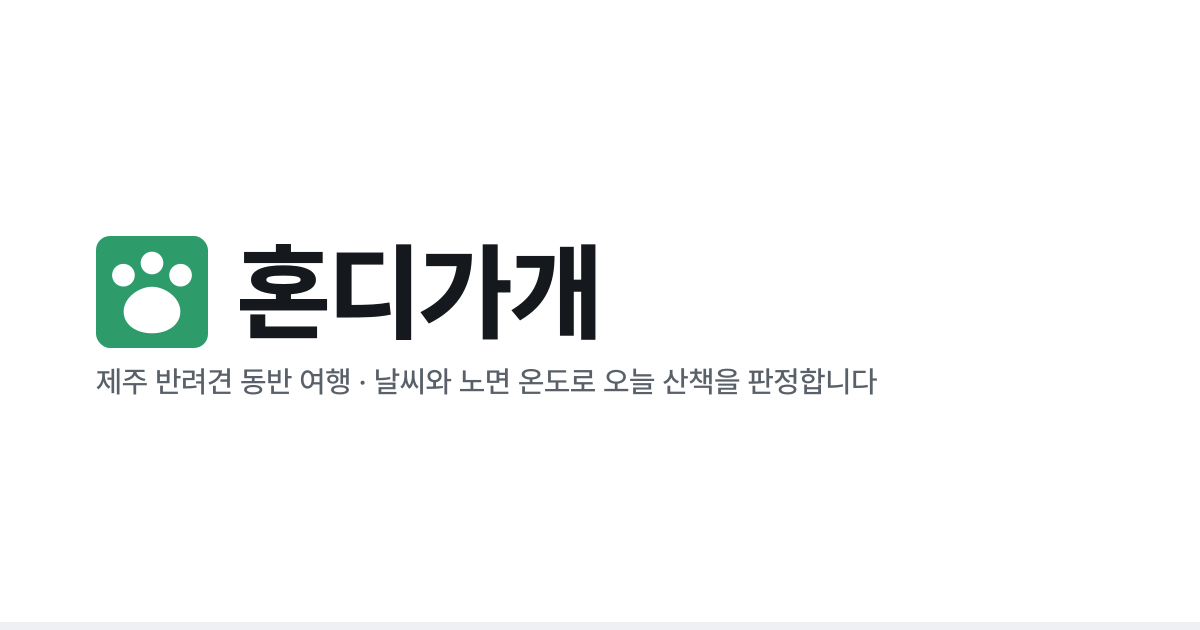
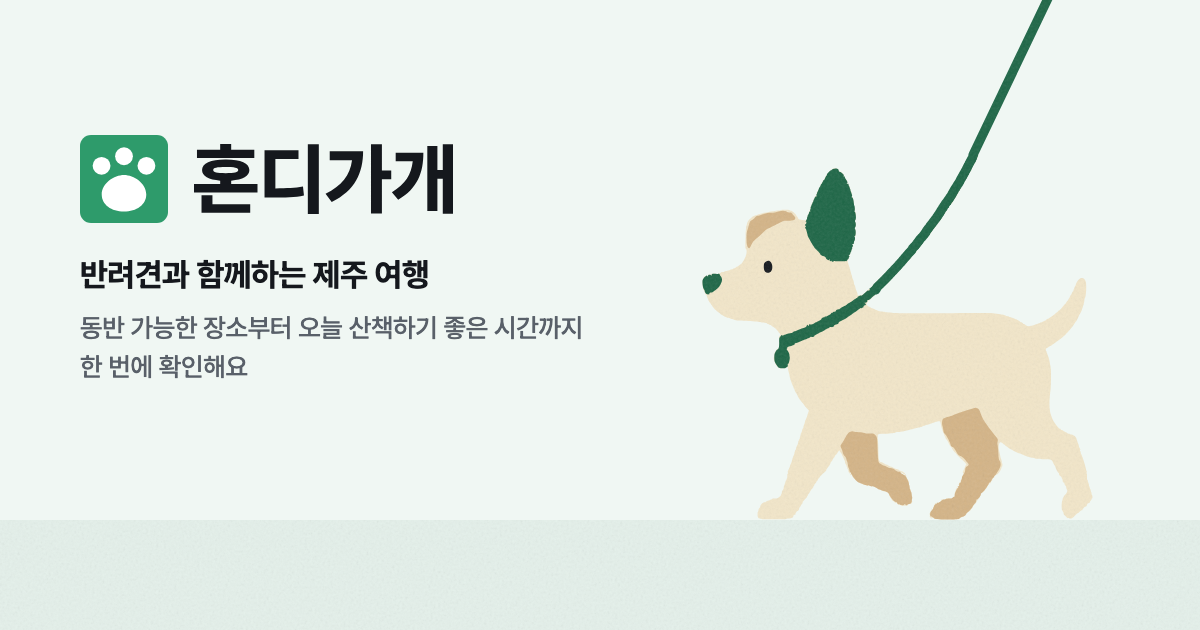
[FE] feat: 공유 카드를 캐릭터 카드로 바꾸고 '판정' 문구를 걷는다 (#952)
흰 바탕에 로고 · 글자뿐이던 공유 카드의 부제가 "…오늘 산책을 판정합니다" 였다.
#942 에서 화면 문구의 '판정' 을 걷은 뒤 카드 · og:description · 매니페스트에만
남아 있었다.

- 카드: dog-leash.svg 를 좌우 반전해 글자 쪽으로 걷게 두고, 목줄은 원본 중심선을
  따라 화면 밖까지 한 줄로 그렸다. 글자는 /about 히어로 한 쌍
- og:description · 매니페스트: 카드 속 설명 줄과 같은 문장 (B6 규칙)

diff --git a/frontend/app/layout.tsx b/frontend/app/layout.tsx
@@ -78,7 +78,7 @@ export const metadata: Metadata = {
       자리라 한 줄이 전부다 (아트보드 4절). 카드 이미지에 이미 이 문장이 들어가 있어
       다른 문장을 쓰면 그림과 글이 어긋난다.
     */
-    description: '제주 반려견 동반 여행 — 날씨와 노면 온도로 오늘 산책을 판정합니다',
+    description: '동반 가능한 장소부터 오늘 산책하기 좋은 시간까지 한 번에 확인해요',
     url: SITE_URL,
   },
   /*
